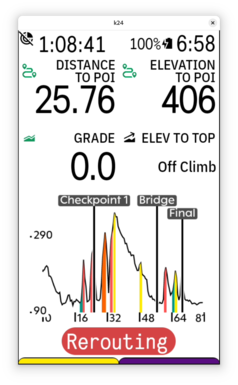
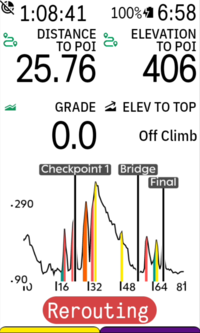
Replace gradient indicators with chevrons, fix inverted indicator setting (#21)
* Replace gradient indicators with chevrons, fix inverted indicator setting

* Update README

* Fix inclindeIndicator missspelling

diff --git a/app/src/main/kotlin/de/timklge/karooroutegraph/KarooRouteGraphExtension.kt b/app/src/main/kotlin/de/timklge/karooroutegraph/KarooRouteGraphExtension.kt
@@ -15,6 +15,7 @@ import identifyClimbs
 import io.hammerhead.karooext.extension.KarooExtension
 import io.hammerhead.karooext.internal.Emitter
 import io.hammerhead.karooext.models.DataType
+import io.hammerhead.karooext.models.HardwareType
 import io.hammerhead.karooext.models.HideSymbols
 import io.hammerhead.karooext.models.MapEffect
 import io.hammerhead.karooext.models.OnGlobalPOIs
@@ -35,12 +36,13 @@ import kotlinx.coroutines.flow.combine
 import kotlinx.coroutines.flow.distinctUntilChanged
 import kotlinx.coroutines.flow.first
 import kotlinx.coroutines.flow.flow
+import kotlinx.coroutines.flow.flowOf
 import kotlinx.coroutines.flow.map
 import kotlinx.coroutines.flow.transformLatest
 import kotlinx.coroutines.launch
 import org.koin.android.ext.android.inject
 import kotlin.math.pow
-import kotlin.math.roundToInt
+import kotlin.math.round
 import kotlin.time.Duration.Companion.seconds
 
 class GradientIndicator(val id: String, val distance: Float, val gradientPercent: Float, @DrawableRes val drawableRes: Int){
@@ -115,6 +117,7 @@ class KarooRouteGraphExtension : KarooExtension("karoo-routegraph", BuildConfig.
 
         val gradientIndicatorJob = CoroutineScope(Dispatchers.IO).launch {
             val zoomLevelFlow = karooSystem.stream<OnMapZoomLevel>()
+            val locationFlow = karooSystem.stream<OnLocationChanged>()
 
             data class StreamData(
                 val settings: RouteGraphSettings,
@@ -123,9 +126,16 @@ class KarooRouteGraphExtension : KarooExtension("karoo-routegraph", BuildConfig.
                 val viewModel: RouteGraphViewModel
             )
 
-            combine(applicationContext.streamSettings(karooSystem.karooSystemService), karooSystem.stream<OnLocationChanged>(), zoomLevelFlow, routeGraphViewModelProvider.viewModelFlow) { settings, location, mapZoom, viewModel ->
+            val redrawInterval = if (karooSystem.karooSystemService.hardwareType == HardwareType.K2) {
+                3.seconds
+            } else {
+                1.seconds
+            }
+
+            combine(applicationContext.streamSettings(karooSystem.karooSystemService), locationFlow, zoomLevelFlow, routeGraphViewModelProvider.viewModelFlow) { settings, location, mapZoom, viewModel ->
                 StreamData(settings, location, mapZoom, viewModel)
-            }.collect { (settings, location, mapZoom, viewModel) ->
+            }.throttle(redrawInterval.inWholeMilliseconds).collect { (settings, location, mapZoom, viewModel) ->
+                Log.d(TAG, "Location: $location, MapZoom: $mapZoom")
                 if (settings.showGradientIndicatorsOnMap) {
                     val boundingBox =
                         calculateBoundingBox(location.lat, location.lng, mapZoom.zoomLevel)
@@ -133,8 +143,8 @@ class KarooRouteGraphExtension : KarooExtension("karoo-routegraph", BuildConfig.
                         Point.fromLngLat(boundingBox.minLng, boundingBox.minLat),
                         Point.fromLngLat(boundingBox.maxLng, boundingBox.maxLat),
                         TurfConstants.UNIT_METERS
-                    )
-                    Log.d(TAG, "Location: $location, MapZoom: $mapZoom, Diagonal: $mapDiagonal")
+                    ) * 2
+                    Log.d(TAG, "Drawing gradient indicators, Diagonal: $mapDiagonal")
 
                     val distanceAlongRoute = viewModel.distanceAlongRoute ?: 0.0f
                     val startDistance =
@@ -143,7 +153,9 @@ class KarooRouteGraphExtension : KarooExtension("karoo-routegraph", BuildConfig.
 
                     if (viewModel.sampledElevationData != null) {
                         Log.d(TAG, "Range: $startDistance - $endDistance")
-                        val steps = ((mapDiagonal / 8.0) / viewModel.sampledElevationData.interval).roundToInt().coerceIn(1, 100)
+
+                        val wantedStepInMeters = mapDiagonal / 20.0
+                        val steps = round(wantedStepInMeters / viewModel.sampledElevationData.interval).toInt().coerceAtLeast(1)
 
                         currentSymbols = viewModel.sampledElevationData.getGradientIndicators(steps) { distance ->
                             val targetPosition = TurfMeasurement.along(
@@ -168,44 +180,35 @@ class KarooRouteGraphExtension : KarooExtension("karoo-routegraph", BuildConfig.
                     if (currentSymbols.isNotEmpty()) {
                         Log.d(TAG, "Drawing symbols: $currentSymbols")
 
-                    val icons = currentSymbols.mapNotNull { inclindeIndicator ->
-                            val knownRoute = viewModel.knownRoute ?: return@mapNotNull null
+                    val icons = currentSymbols.mapNotNull { gradientIndicator ->
+                        val knownRoute = viewModel.knownRoute ?: return@mapNotNull null
 
-                            val position = TurfMeasurement.along(
-                                knownRoute,
-                                inclindeIndicator.distance.toDouble(),
-                                TurfConstants.UNIT_METERS
-                            )
+                        val position = TurfMeasurement.along(
+                            knownRoute,
+                            gradientIndicator.distance.toDouble(),
+                            TurfConstants.UNIT_METERS
+                        )
 
-                            val nextPosition = TurfMeasurement.along(
-                                viewModel.knownRoute,
-                                inclindeIndicator.distance.toDouble() + 10.0,
-                                TurfConstants.UNIT_METERS
-                            )
+                        val nextPosition = TurfMeasurement.along(
+                            viewModel.knownRoute,
+                            gradientIndicator.distance.toDouble() + 10.0,
+                            TurfConstants.UNIT_METERS
+                        )
 
-                            val bearing = TurfMeasurement.bearing(
-                                position,
-                                nextPosition
-                            )
+                        val bearing = TurfMeasurement.bearing(
+                            position,
+                            nextPosition
+                        )
 
-                            val normal = bearing + 90.0
-
-                            val offsetPosition = TurfMeasurement.destination(
-                                position,
-                                (mapDiagonal / 12.0).coerceIn(10.0, 100.0),
-                                normal,
-                                TurfConstants.UNIT_METERS
-                            )
-
-                            Symbol.Icon(
-                                id = inclindeIndicator.id,
-                                lat = offsetPosition.latitude(),
-                                lng = offsetPosition.longitude(),
-                                iconRes = inclindeIndicator.drawableRes,
-                                orientation = 0.0f
-                            )
-                        }
-                        emitter.onNext(ShowSymbols(icons))
+                        Symbol.Icon(
+                            id = gradientIndicator.id,
+                            lat = position.latitude(),
+                            lng = position.longitude(),
+                            iconRes = gradientIndicator.drawableRes,
+                            orientation = bearing.toFloat() - (location.orientation ?: 0.0).toFloat(),
+                        )
+                    }
+                    emitter.onNext(ShowSymbols(icons))
                 }
 
                     lastDrawnSymbols = currentSymbols

diff --git a/app/src/main/kotlin/de/timklge/karooroutegraph/ValhallaAPIElevationProvider.kt b/app/src/main/kotlin/de/timklge/karooroutegraph/ValhallaAPIElevationProvider.kt
@@ -15,15 +15,12 @@ import java.util.zip.GZIPInputStream
 
 @DrawableRes
 fun getInclineIndicator(percent: Float): Int? {
-    return when (percent) {
-        in 2.5f..<3.0f -> R.drawable.elevate1
-        in 3.0f..<3.5f -> R.drawable.elevate2
-        in 3.5f..<5.0f -> R.drawable.elevate3
-        in 5.0f..<7.0f -> R.drawable.elevate4
-        in 7.0f..<10.0f -> R.drawable.elevate5
-        in 10.0f..<13.0f -> R.drawable.elevate6
-        in 13.0f..<16.0f -> R.drawable.elevate7
-        in 16.0f..Float.MAX_VALUE -> R.drawable.elevate8
+    return when (percent){
+        in 1.5f..<3.0f -> R.drawable.chevron0
+        in 3.0f..<5.0f -> R.drawable.chevron1
+        in 5.0f..<8.0f -> R.drawable.chevron2
+        in 8.0f..<11.0f -> R.drawable.chevron3
+        in 11.0f..Float.MAX_VALUE -> R.drawable.chevron4
         else -> null
     }
 }

diff --git a/app/src/main/kotlin/de/timklge/karooroutegraph/screens/MainScreen.kt b/app/src/main/kotlin/de/timklge/karooroutegraph/screens/MainScreen.kt
@@ -122,8 +122,8 @@ fun MainScreen(onFinish: () -> Unit) {
 
                     Column(modifier = Modifier.padding(10.dp)){
                         Row(verticalAlignment = Alignment.CenterVertically) {
-                            Switch(checked = !showGradientIndicatorsOnMap, onCheckedChange = {
-                                showGradientIndicatorsOnMap = !it
+                            Switch(checked = showGradientIndicatorsOnMap, onCheckedChange = {
+                                showGradientIndicatorsOnMap = it
                                 coroutineScope.launch {
                                     updateSettings()
                                 }

diff --git a/README.md b/README.md
@@ -15,6 +15,7 @@ Compatible with Karoo 2 and Karoo 3 devices.
 
 ![Route Graph](routegraph.png)
 ![Vertical Route Graph](vertical_routegraph.png)
+![Chevrons](chevrons.png)
 
 ## Installation
 
@@ -44,6 +45,8 @@ between the full route and the upcoming 2km, 20km, 50km and 100km of the route.
 to them as well as climb lengths and total climb elevations are shown next to the elevation profile.
 - Distance to POI: Shows the distance to the next POI along the route. Note that this is the distance along the route and not the straight-line distance.
 - Elevation to POI: Shows the remaining climbing to the next POI along the route. Note that this is the elevation along the route and not the straight-line elevation.
+
+Additionally, you can enable chevrons on the map to indicate gradients. The chevrons are drawn on top of the route (see third screenshot).
 
 ## Open issues
 
